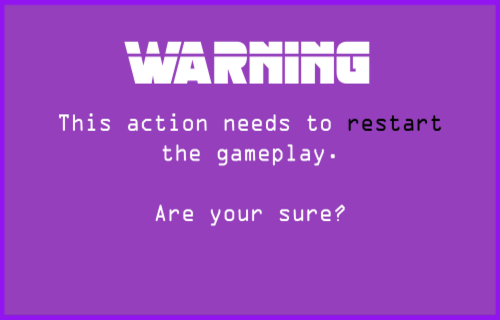
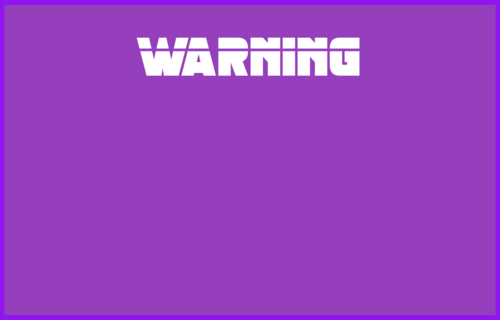
Commit: actualizaciones a la clase WARNING

diff --git a/src/interfaz/YouWon.java b/src/interfaz/YouWon.java
@@ -1,0 +1,89 @@
+/*
+ * Click nbfs://nbhost/SystemFileSystem/Templates/Licenses/license-default.txt to change this license
+ * Click nbfs://nbhost/SystemFileSystem/Templates/GUIForms/JFrame.java to edit this template
+ */
+package interfaz;
+
+import javax.swing.ImageIcon;
+
+/**
+ *
+ * @author nalis
+ */
+public class YouWon extends javax.swing.JFrame {
+
+    /**
+     * Creates new form YouWon
+     */
+    public YouWon() {
+        this.setUndecorated(true);
+        initComponents();
+        setIconImage(new ImageIcon("recursos/logo.png").getImage());
+        this.setTitle("Ocaso Arkanoid");
+        this.setResizable(false);
+        this.setLocationRelativeTo(null);
+        
+        
+    }
+
+    /**
+     * This method is called from within the constructor to initialize the form. WARNING: Do NOT modify this code. The content of this method is always regenerated by the Form Editor.
+     */
+    @SuppressWarnings("unchecked")
+    // <editor-fold defaultstate="collapsed" desc="Generated Code">//GEN-BEGIN:initComponents
+    private void initComponents() {
+
+        setDefaultCloseOperation(javax.swing.WindowConstants.EXIT_ON_CLOSE);
+
+        javax.swing.GroupLayout layout = new javax.swing.GroupLayout(getContentPane());
+        getContentPane().setLayout(layout);
+        layout.setHorizontalGroup(
+            layout.createParallelGroup(javax.swing.GroupLayout.Alignment.LEADING)
+            .addGap(0, 400, Short.MAX_VALUE)
+        );
+        layout.setVerticalGroup(
+            layout.createParallelGroup(javax.swing.GroupLayout.Alignment.LEADING)
+            .addGap(0, 300, Short.MAX_VALUE)
+        );
+
+        pack();
+    }// </editor-fold>//GEN-END:initComponents
+
+    /**
+     * @param args the command line arguments
+     */
+    public static void main(String args[]) {
+        /* Set the Nimbus look and feel */
+        //<editor-fold defaultstate="collapsed" desc=" Look and feel setting code (optional) ">
+        /* If Nimbus (introduced in Java SE 6) is not available, stay with the default look and feel.
+         * For details see http://download.oracle.com/javase/tutorial/uiswing/lookandfeel/plaf.html 
+         */
+        try {
+            for (javax.swing.UIManager.LookAndFeelInfo info : javax.swing.UIManager.getInstalledLookAndFeels()) {
+                if ("Nimbus".equals(info.getName())) {
+                    javax.swing.UIManager.setLookAndFeel(info.getClassName());
+                    break;
+                }
+            }
+        } catch (ClassNotFoundException ex) {
+            java.util.logging.Logger.getLogger(YouWon.class.getName()).log(java.util.logging.Level.SEVERE, null, ex);
+        } catch (InstantiationException ex) {
+            java.util.logging.Logger.getLogger(YouWon.class.getName()).log(java.util.logging.Level.SEVERE, null, ex);
+        } catch (IllegalAccessException ex) {
+            java.util.logging.Logger.getLogger(YouWon.class.getName()).log(java.util.logging.Level.SEVERE, null, ex);
+        } catch (javax.swing.UnsupportedLookAndFeelException ex) {
+            java.util.logging.Logger.getLogger(YouWon.class.getName()).log(java.util.logging.Level.SEVERE, null, ex);
+        }
+        //</editor-fold>
+
+        /* Create and display the form */
+        java.awt.EventQueue.invokeLater(new Runnable() {
+            public void run() {
+                new YouWon().setVisible(true);
+            }
+        });
+    }
+
+    // Variables declaration - do not modify//GEN-BEGIN:variables
+    // End of variables declaration//GEN-END:variables
+}

diff --git a/src/interfaz/NewRecord.java b/src/interfaz/NewRecord.java
@@ -1,0 +1,80 @@
+/*
+ * Click nbfs://nbhost/SystemFileSystem/Templates/Licenses/license-default.txt to change this license
+ * Click nbfs://nbhost/SystemFileSystem/Templates/GUIForms/JFrame.java to edit this template
+ */
+package interfaz;
+
+/**
+ *
+ * @author nalis
+ */
+public class NewRecord extends javax.swing.JFrame {
+
+    /**
+     * Creates new form NewRecord
+     */
+    public NewRecord() {
+        initComponents();
+    }
+
+    /**
+     * This method is called from within the constructor to initialize the form. WARNING: Do NOT modify this code. The content of this method is always regenerated by the Form Editor.
+     */
+    @SuppressWarnings("unchecked")
+    // <editor-fold defaultstate="collapsed" desc="Generated Code">//GEN-BEGIN:initComponents
+    private void initComponents() {
+
+        setDefaultCloseOperation(javax.swing.WindowConstants.EXIT_ON_CLOSE);
+
+        javax.swing.GroupLayout layout = new javax.swing.GroupLayout(getContentPane());
+        getContentPane().setLayout(layout);
+        layout.setHorizontalGroup(
+            layout.createParallelGroup(javax.swing.GroupLayout.Alignment.LEADING)
+            .addGap(0, 400, Short.MAX_VALUE)
+        );
+        layout.setVerticalGroup(
+            layout.createParallelGroup(javax.swing.GroupLayout.Alignment.LEADING)
+            .addGap(0, 300, Short.MAX_VALUE)
+        );
+
+        pack();
+    }// </editor-fold>//GEN-END:initComponents
+
+    /**
+     * @param args the command line arguments
+     */
+    public static void main(String args[]) {
+        /* Set the Nimbus look and feel */
+        //<editor-fold defaultstate="collapsed" desc=" Look and feel setting code (optional) ">
+        /* If Nimbus (introduced in Java SE 6) is not available, stay with the default look and feel.
+         * For details see http://download.oracle.com/javase/tutorial/uiswing/lookandfeel/plaf.html 
+         */
+        try {
+            for (javax.swing.UIManager.LookAndFeelInfo info : javax.swing.UIManager.getInstalledLookAndFeels()) {
+                if ("Nimbus".equals(info.getName())) {
+                    javax.swing.UIManager.setLookAndFeel(info.getClassName());
+                    break;
+                }
+            }
+        } catch (ClassNotFoundException ex) {
+            java.util.logging.Logger.getLogger(NewRecord.class.getName()).log(java.util.logging.Level.SEVERE, null, ex);
+        } catch (InstantiationException ex) {
+            java.util.logging.Logger.getLogger(NewRecord.class.getName()).log(java.util.logging.Level.SEVERE, null, ex);
+        } catch (IllegalAccessException ex) {
+            java.util.logging.Logger.getLogger(NewRecord.class.getName()).log(java.util.logging.Level.SEVERE, null, ex);
+        } catch (javax.swing.UnsupportedLookAndFeelException ex) {
+            java.util.logging.Logger.getLogger(NewRecord.class.getName()).log(java.util.logging.Level.SEVERE, null, ex);
+        }
+        //</editor-fold>
+
+        /* Create and display the form */
+        java.awt.EventQueue.invokeLater(new Runnable() {
+            public void run() {
+                new NewRecord().setVisible(true);
+            }
+        });
+    }
+
+    // Variables declaration - do not modify//GEN-BEGIN:variables
+    // End of variables declaration//GEN-END:variables
+}

diff --git a/src/interfaz/YouLost.java b/src/interfaz/YouLost.java
@@ -1,0 +1,80 @@
+/*
+ * Click nbfs://nbhost/SystemFileSystem/Templates/Licenses/license-default.txt to change this license
+ * Click nbfs://nbhost/SystemFileSystem/Templates/GUIForms/JFrame.java to edit this template
+ */
+package interfaz;
+
+/**
+ *
+ * @author nalis
+ */
+public class YouLost extends javax.swing.JFrame {
+
+    /**
+     * Creates new form YouLost
+     */
+    public YouLost() {
+        initComponents();
+    }
+
+    /**
+     * This method is called from within the constructor to initialize the form. WARNING: Do NOT modify this code. The content of this method is always regenerated by the Form Editor.
+     */
+    @SuppressWarnings("unchecked")
+    // <editor-fold defaultstate="collapsed" desc="Generated Code">//GEN-BEGIN:initComponents
+    private void initComponents() {
+
+        setDefaultCloseOperation(javax.swing.WindowConstants.EXIT_ON_CLOSE);
+
+        javax.swing.GroupLayout layout = new javax.swing.GroupLayout(getContentPane());
+        getContentPane().setLayout(layout);
+        layout.setHorizontalGroup(
+            layout.createParallelGroup(javax.swing.GroupLayout.Alignment.LEADING)
+            .addGap(0, 400, Short.MAX_VALUE)
+        );
+        layout.setVerticalGroup(
+            layout.createParallelGroup(javax.swing.GroupLayout.Alignment.LEADING)
+            .addGap(0, 300, Short.MAX_VALUE)
+        );
+
+        pack();
+    }// </editor-fold>//GEN-END:initComponents
+
+    /**
+     * @param args the command line arguments
+     */
+    public static void main(String args[]) {
+        /* Set the Nimbus look and feel */
+        //<editor-fold defaultstate="collapsed" desc=" Look and feel setting code (optional) ">
+        /* If Nimbus (introduced in Java SE 6) is not available, stay with the default look and feel.
+         * For details see http://download.oracle.com/javase/tutorial/uiswing/lookandfeel/plaf.html 
+         */
+        try {
+            for (javax.swing.UIManager.LookAndFeelInfo info : javax.swing.UIManager.getInstalledLookAndFeels()) {
+                if ("Nimbus".equals(info.getName())) {
+                    javax.swing.UIManager.setLookAndFeel(info.getClassName());
+                    break;
+                }
+            }
+        } catch (ClassNotFoundException ex) {
+            java.util.logging.Logger.getLogger(YouLost.class.getName()).log(java.util.logging.Level.SEVERE, null, ex);
+        } catch (InstantiationException ex) {
+            java.util.logging.Logger.getLogger(YouLost.class.getName()).log(java.util.logging.Level.SEVERE, null, ex);
+        } catch (IllegalAccessException ex) {
+            java.util.logging.Logger.getLogger(YouLost.class.getName()).log(java.util.logging.Level.SEVERE, null, ex);
+        } catch (javax.swing.UnsupportedLookAndFeelException ex) {
+            java.util.logging.Logger.getLogger(YouLost.class.getName()).log(java.util.logging.Level.SEVERE, null, ex);
+        }
+        //</editor-fold>
+
+        /* Create and display the form */
+        java.awt.EventQueue.invokeLater(new Runnable() {
+            public void run() {
+                new YouLost().setVisible(true);
+            }
+        });
+    }
+
+    // Variables declaration - do not modify//GEN-BEGIN:variables
+    // End of variables declaration//GEN-END:variables
+}

diff --git a/src/interfaz/Warning.java b/src/interfaz/Warning.java
@@ -11,6 +11,8 @@ import javax.swing.*;
 public class Warning extends javax.swing.JFrame {
 
     private PanelIMG WarningImage = new PanelIMG();
+    private PanelIMG settingsWarning = new PanelIMG();
+    private PanelIMG closeWarning = new PanelIMG();
     private JButton YesButton = new JButton();
     private JButton NoButton = new JButton();
 
@@ -28,6 +30,20 @@ public class Warning extends javax.swing.JFrame {
         WarningImage.setLayout(null);
         WarningImage.setOpaque(false);
         this.getContentPane().add(WarningImage);
+        
+        settingsWarning.setImage("recursos/settingsWarning.png");
+        settingsWarning.setBounds(20,85, 460, 150);
+        settingsWarning.setOpaque(false);
+        settingsWarning.setLayout(null);
+        WarningImage.add(settingsWarning);
+        settingsWarning.setVisible(false);
+        
+        closeWarning.setImage("recursos/closeWarning.png");
+        closeWarning.setBounds(20,85, 460, 150);
+        closeWarning.setOpaque(false);
+        closeWarning.setLayout(null);
+        WarningImage.add(closeWarning);
+        //closeWarning.setVisible(false);
 
         YesButton.setIcon(new ImageIcon("recursos/yesButton.png"));
         YesButton.setRolloverIcon(new ImageIcon("recursos/yesButtonPressed.png"));
